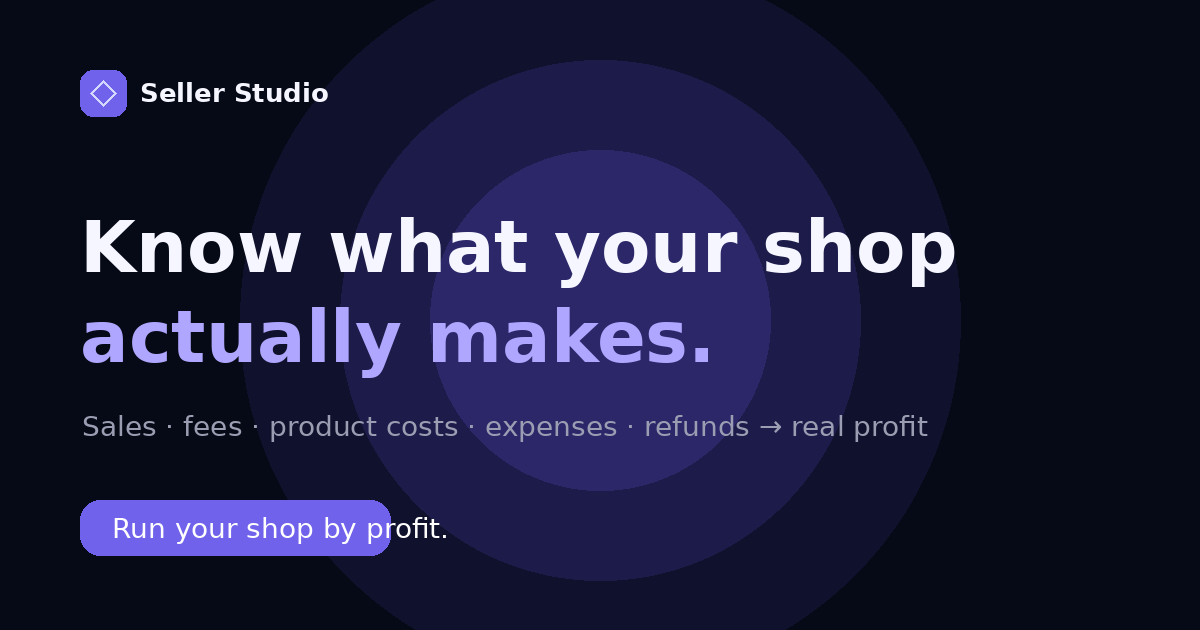
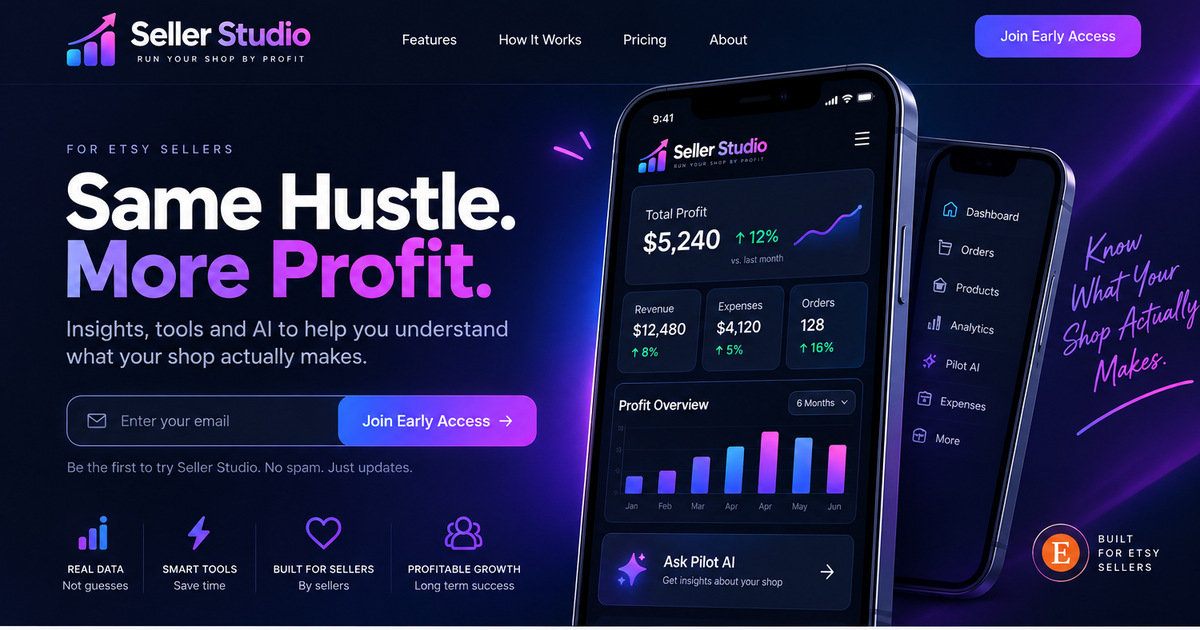
Add Seller Studio social preview branding

diff --git a/app/layout.tsx b/app/layout.tsx
@@ -19,17 +19,26 @@ export const metadata: Metadata = {
   alternates: { canonical: "/" },
   keywords: ["Etsy profit tracker", "Etsy seller analytics", "Etsy fees", "Etsy profit calculator", "seller dashboard", "Seller Studio"],
   openGraph: {
-    title: "Seller Studio — Run your shop by profit",
-    description: "Know what your shop actually makes. Track fees, costs, refunds and real profit in one place.",
+    title: "Seller Studio — Run your shop by profit.",
+    description:
+      "Know what your shop actually makes. Track fees, costs, expenses, refunds and real profit in one place.",
     url: "https://www.getsellerstudio.com",
     siteName: "Seller Studio",
+    images: [
+      {
+        url: "/seller-studio-og.png",
+        width: 1200,
+        height: 630,
+        alt: "Seller Studio — Run your shop by profit.",
+      },
+    ],
     type: "website",
-    images: [{ url: "/seller-studio-og.png", width: 1200, height: 630, alt: "Seller Studio — Know what your shop actually makes" }],
   },
   twitter: {
     card: "summary_large_image",
-    title: "Seller Studio — Run your shop by profit",
-    description: "Know what your shop actually makes.",
+    title: "Seller Studio — Run your shop by profit.",
+    description:
+      "Know what your shop actually makes. Track fees, costs, expenses, refunds and real profit in one place.",
     images: ["/seller-studio-og.png"],
   },
   icons: {

diff --git a/README.md b/README.md
@@ -40,3 +40,9 @@ The service-role key is used only inside the server route. Do not prefix it with
 - New approved Seller Studio gradient growth icon integrated into header and footer.
 - New favicon and Apple-touch icon generated from the approved brand direction.
 - Existing premium layout and conversion structure preserved.
+
+## V0.8 social preview update
+- New branded 1200x630 Open Graph image.
+- Twitter/X large-card metadata.
+- Canonical social URL points to https://www.getsellerstudio.com.
+- Square branded social preview reference asset included.
